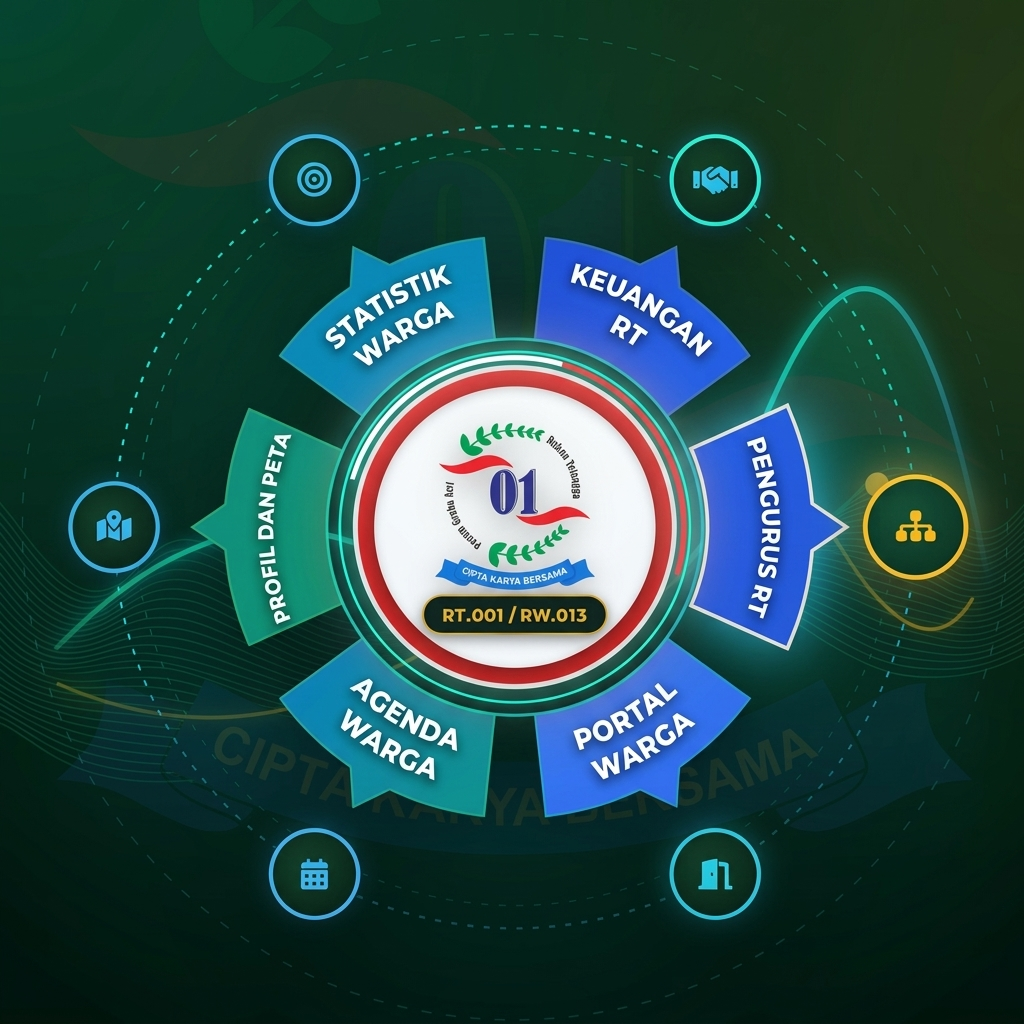
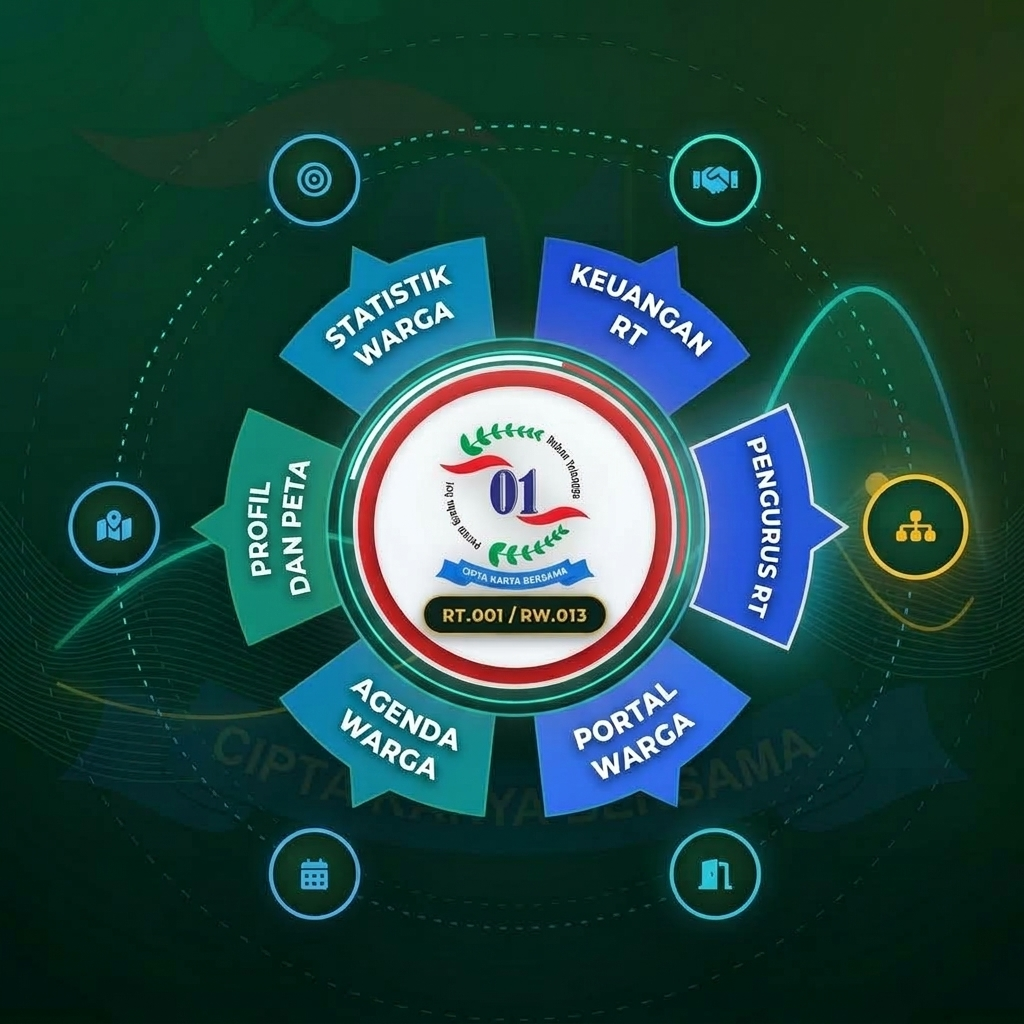
feat(ui): sesuaikan PROFIL DAN PETA menjadi 2 baris dengan ukuran font seragam (v2.9.56)

diff --git a/index.html b/index.html
@@ -32,7 +32,7 @@
   <!-- Custom Font Preload -->
   <link rel="preload" href="assets/MaskingRenta.otf" as="font" type="font/otf" crossorigin>
 
-  <link rel="stylesheet" href="styles.css?v=2.9.55">
+  <link rel="stylesheet" href="styles.css?v=2.9.56">
 </head>
 <body>
 
@@ -536,8 +536,9 @@
                     <path id="orb-txt-2-1" d="M 197.36 389.22 A 136 136 0 0 0 274.05 433.5"/>
                     <path id="orb-txt-2-2" d="M 180.76 403.66 A 158 158 0 0 0 269.85 455.1"/>
 
-                    <!-- Sector 3: West (180 deg) - Centered Contour Arc -->
-                    <path id="orb-txt-3" d="M 168 372 A 150 150 0 0 1 168 228"/>
+                    <!-- Sector 3: West (180 deg) - 2-Line Contour Arcs -->
+                    <path id="orb-txt-3-1" d="M 153.5 359.2 A 158 158 0 0 1 153.5 240.8"/>
+                    <path id="orb-txt-3-2" d="M 173.9 351 A 136 136 0 0 1 173.9 249"/>
 
                     <!-- Sector 4: Top-Left (240 deg) -->
                     <path id="orb-txt-4-1" d="M 180.76 196.34 A 158 158 0 0 1 269.85 144.9"/>
@@ -577,7 +578,8 @@
                   <!-- Sector 3: West (Profil dan Peta Cakupan Wilayah) -->
                   <g class="orbital-petal-group" data-sector="3" data-subview="tentang" role="button" tabindex="0" aria-label="Profil dan Peta Cakupan Wilayah">
                     <path class="orbital-petal-shape" d="M 194.94 346.77 L 137.39 372.4 A 178 178 0 0 1 122.55 313.97 L 102 300 L 122.55 286.03 A 178 178 0 0 1 137.39 227.6 L 194.94 253.23 A 115 115 0 0 0 194.94 346.77 Z" fill="url(#orb-grad-3)"/>
-                    <text class="orbital-petal-label orbital-petal-label-compact"><textPath href="#orb-txt-3" startOffset="50%" text-anchor="middle">PROFIL DAN PETA</textPath></text>
+                    <text class="orbital-petal-label"><textPath href="#orb-txt-3-1" startOffset="50%" text-anchor="middle">PROFIL</textPath></text>
+                    <text class="orbital-petal-label"><textPath href="#orb-txt-3-2" startOffset="50%" text-anchor="middle">DAN PETA</textPath></text>
                   </g>
 
                   <!-- Sector 4: North-West (Data & Statistik Kependudukan) -->
@@ -7948,6 +7950,6 @@
   <div class="toast-container" id="toast-container"></div>
 
   <!-- Main JavaScript Logic -->
-  <script src="app.js?v=2.9.55"></script>
+  <script src="app.js?v=2.9.56"></script>
 </body>
 </html>

diff --git a/app.js b/app.js
@@ -5141,10 +5141,10 @@ function setupAccountManagementEvents() {
 // ==================== PWA SERVICE WORKER REGISTRATION ====================
 
 function registerServiceWorker() {
-  const CURRENT_CACHE_NAME = 'rt-finsmart-cache-v2.9.55';
+  const CURRENT_CACHE_NAME = 'rt-finsmart-cache-v2.9.56';
   if ('serviceWorker' in navigator) {
     window.addEventListener('load', () => {
-      navigator.serviceWorker.register('sw.js?v=2.9.55')
+      navigator.serviceWorker.register('sw.js?v=2.9.56')
         .then(reg => {
           console.log('RT-FinSmart ServiceWorker registered', reg.scope);
           if (reg.update) {

diff --git a/sw.js b/sw.js
@@ -3,12 +3,12 @@
  * Ensures lightning-fast offline access while always prioritizing live updates (Network-First).
  */
 
-const CACHE_NAME = 'rt-finsmart-cache-v2.9.55';
+const CACHE_NAME = 'rt-finsmart-cache-v2.9.56';
 const ASSETS_TO_CACHE = [
   './',
   './index.html',
-  './styles.css?v=2.9.55',
-  './app.js?v=2.9.55',
+  './styles.css?v=2.9.56',
+  './app.js?v=2.9.56',
   './assets/qrcode.min.js',
   './assets/MaskingRenta.otf',
   './manifest.json',

diff --git a/LATEST.md b/LATEST.md
@@ -1,7 +1,7 @@
 # 📌 RT-FinSmart PRO — Status & Dokumentasi Proyek Terkini (LATEST)
 
-**Terakhir Diperbarui:** 23 September 2026 (13:00 WIB)  
-**Versi Rilis Aktif:** `v2.9.55`  
+**Terakhir Diperbarui:** 23 September 2026 (13:10 WIB)  
+**Versi Rilis Aktif:** `v2.9.56`  
 **Entitas:** Rukun Tetangga (RT) 001 / RW 013 – Graha Asri  
 **Aplikasi:** RT-FinSmart PRO (Sistem Keuangan, Portal Warga & Manajemen Ronda Eksekutif)  
 **Cabang Git (Branch):** `main`  
@@ -17,7 +17,24 @@ Dokumen ini dibuat khusus sebagai panduan handover utama (*single source of trut
 
 ## 🌟 Riwayat Rilis & Pembaruan Terkini (Changelog)
 
-### 1. 🇮🇩 Integrasi Animasi Bendera Merah Putih ke Navbar Sepanjang Halaman & Redesain Layout Header (Update v2.9.55 - 23 Sept 2026)
+### 1. 🧭 Optimalisasi Teks Diagram Orbital Sektor 3: "PROFIL DAN PETA" Menjadi 2 Baris Presisi (Update v2.9.56 - 23 Sept 2026)
+- **Latar Belakang & Permintaan Pengguna**:
+  - *"Agar mudah dibaca, edit tulisan ini (PROFIL DAN PETA) menjadi 2 baris line seperti kalimat dibagian yang lain dengan ukuran font yang sama seperti sekarang."*
+- **Hasil Implementasi & Optimalisasi**:
+  1. **Pembagian Menjadi 2 Baris Kurva Konsentris (`orb-txt-3-1` & `orb-txt-3-2`)**:
+     - Label Sektor 3 (Barat / Hub Tentang RT.001) yang sebelumnya 1 baris kurva `PROFIL DAN PETA` kini dipecah menjadi 2 baris konsentris rapi:
+       - **Baris 1 (Luar, R=158)**: `PROFIL` pada kurva `d="M 153.5 359.2 A 158 158 0 0 1 153.5 240.8"`
+       - **Baris 2 (Dalam, R=136)**: `DAN PETA` pada kurva `d="M 173.9 351 A 136 136 0 0 1 173.9 249"`
+     - Arah pembacaan konsisten dari bawah ke atas mengikuti lengkungan kelopak barat, sejajar sempurna dengan kelopak-kelopak lainnya (`STATISTIK / WARGA`, `PORTAL / WARGA`, `AGENDA / KEGIATAN`, dll.).
+  2. **Ukuran Font Seragam & Jelas Terbaca (`.orbital-petal-label`)**:
+     - Menghapus class pengecil khusus (`orbital-petal-label-compact`) sehingga kedua baris mewarisi ukuran font seragam penuh sebesar `15.5px` (desktop) dan `13.8px` (mobile) dengan `font-weight: 900`, `letter-spacing: 0.6px`, dan bayangan teks (`text-shadow`) tebal kontras tinggi.
+  3. **Pembaruan Asset Visual Diagram**:
+     - Memperbarui asset `assets/diagram-orbital-rt001-large.jpg` dengan render diagram terkini yang memuat label 2 baris tersebut.
+  4. **Pembaruan Versi PWA & Cache Busting**:
+     - Cache Service Worker diperbarui menjadi `rt-finsmart-cache-v2.9.56` di `sw.js` dan `app.js`.
+     - Parameter link stylesheet dan script di `index.html` diperbarui ke `styles.css?v=2.9.56` dan `app.js?v=2.9.56`.
+
+### 2. 🇮🇩 Integrasi Animasi Bendera Merah Putih ke Navbar Sepanjang Halaman & Redesain Layout Header (Update v2.9.55 - 23 Sept 2026)
 - **Latar Belakang & Permintaan Pengguna**:
   - *"1. Pindahkan Animasi bendera merah putih ke area kotak yang warna merah (sepanjang halaman)."*
   - *"2. Hilangkan area kotak yang berwarna biru."*
